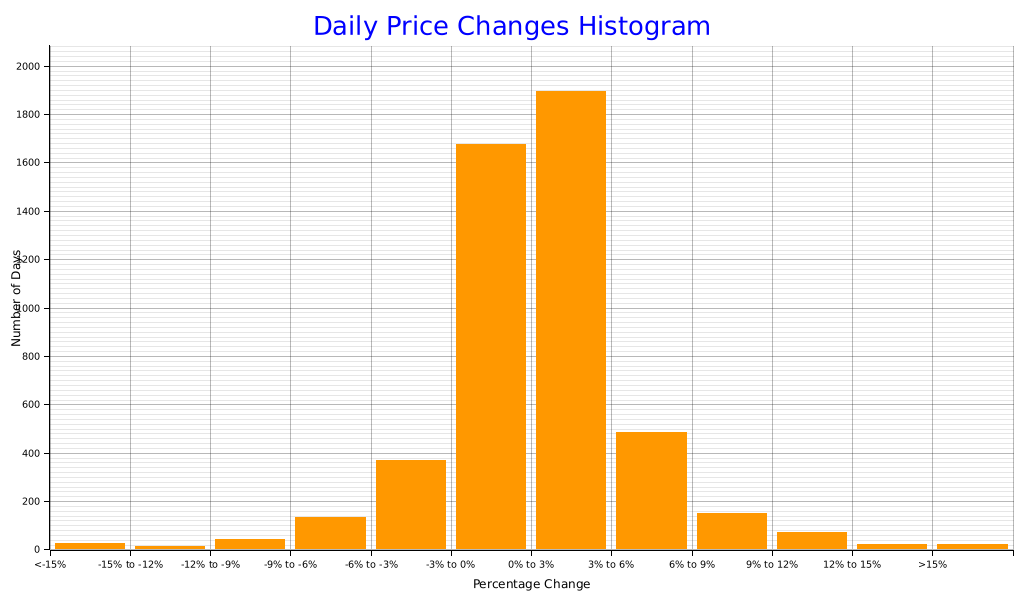
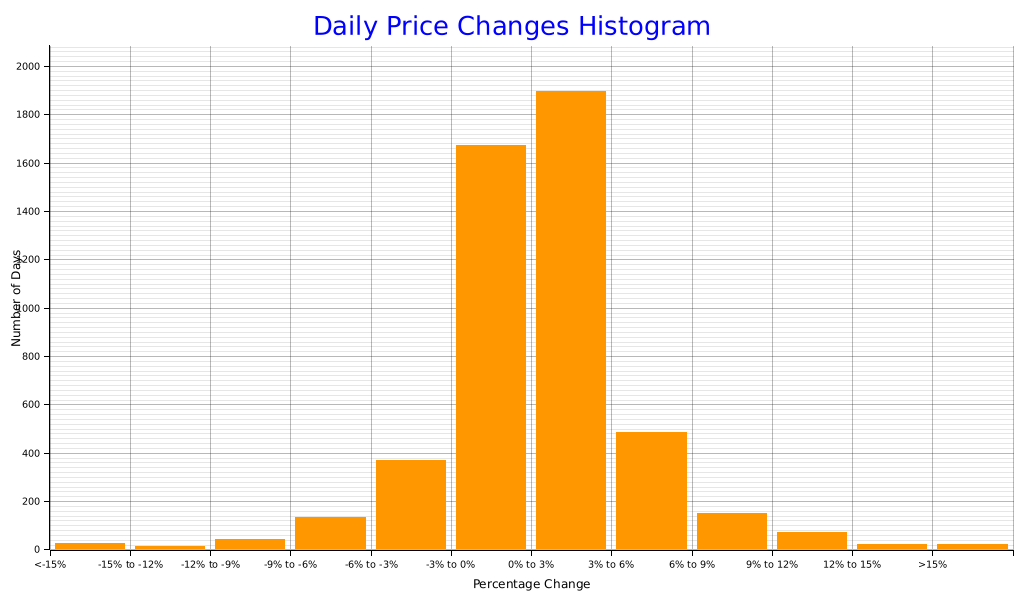
deploy: 32c38bfc33973f71076a7465fb8cd65e6d188ef2

diff --git a/index.html b/index.html
@@ -168,11 +168,11 @@
         </tr>
         <tr>
           <td>-3% to 0%</td>
-          <td>1675</td>
+          <td>1674</td>
         </tr>
         <tr>
           <td>0% to 3%</td>
-          <td>1894</td>
+          <td>1895</td>
         </tr>
         <tr>
           <td>3% to 6%</td>
@@ -225,12 +225,12 @@
             <td>103,752.48</td>
             <td>104,350.66</td>
             <td>103,137.47</td>
-            <td>103,697.06</td>
-            <td class='wma-column'>47,172.19</td>
-            <td>51.63 (0.10 %)</td>
-            <td>72,275.52 (230.0 %)</td>
+            <td>103,759.71</td>
+            <td class='wma-column'>47,172.23</td>
+            <td>51.67 (0.10 %)</td>
+            <td>72,338.17 (230.2 %)</td>
             <td>1,213.18 (1.1 %)</td>
-            <td>-47.57 (0.0 %)</td>
+            <td>15.07 (0.0 %)</td>
           </tr>
           <tr>
             <td>2025-05-15</td>
